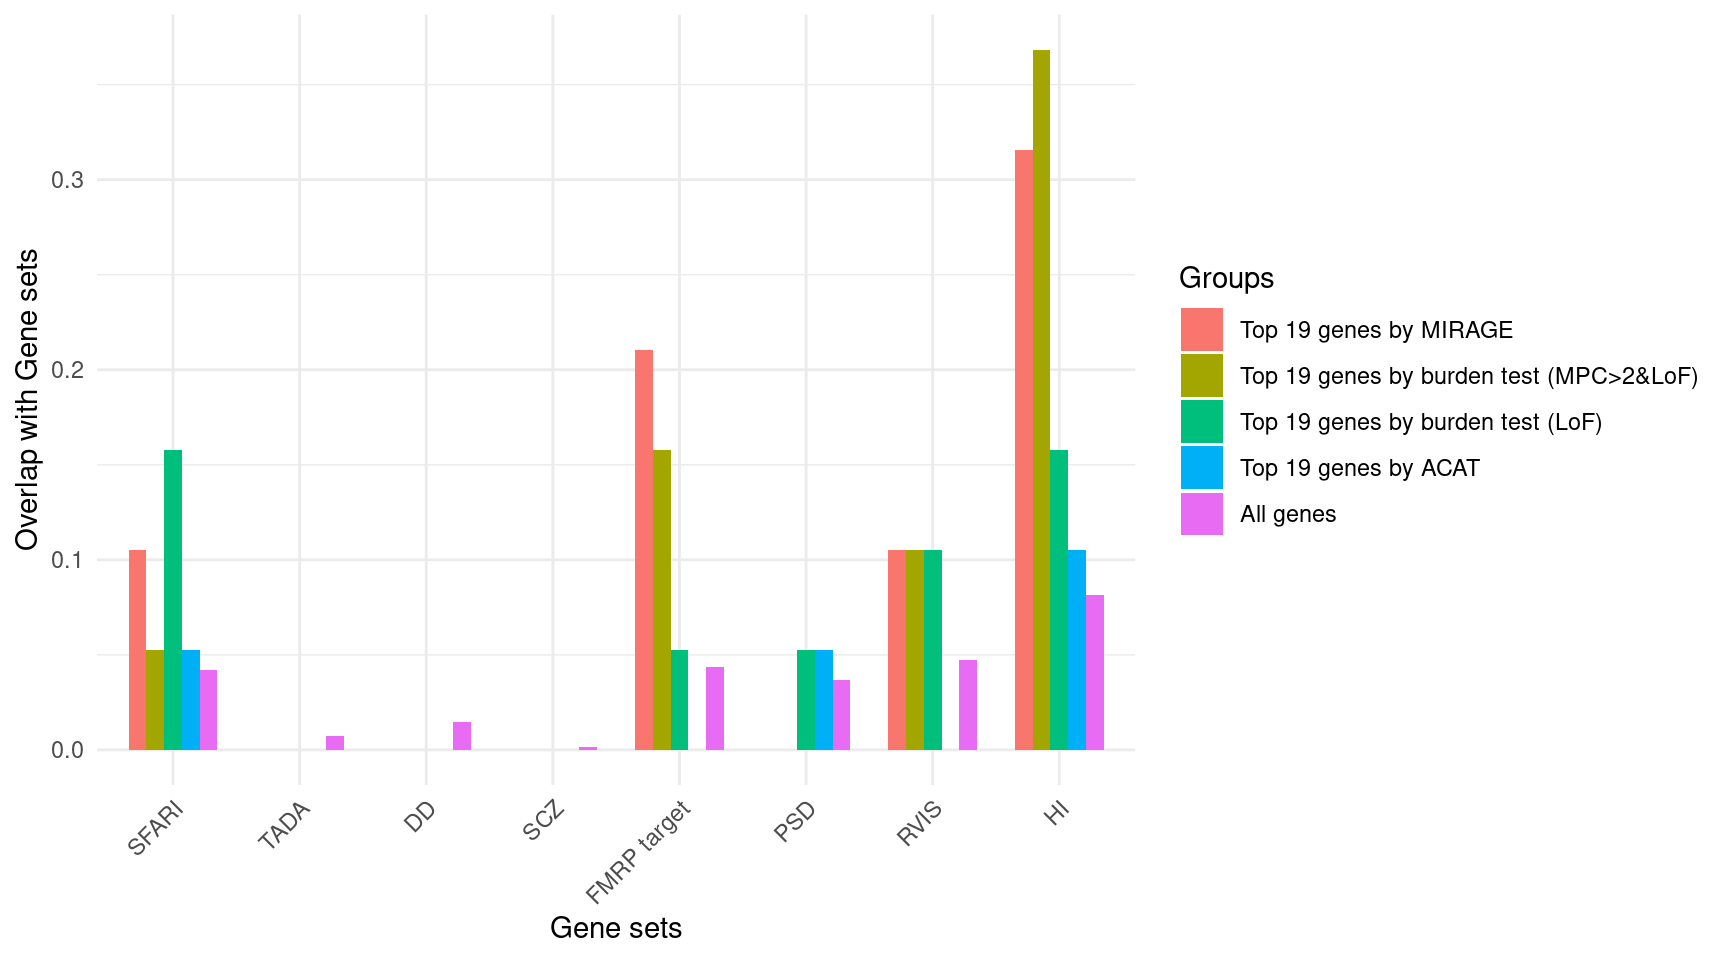
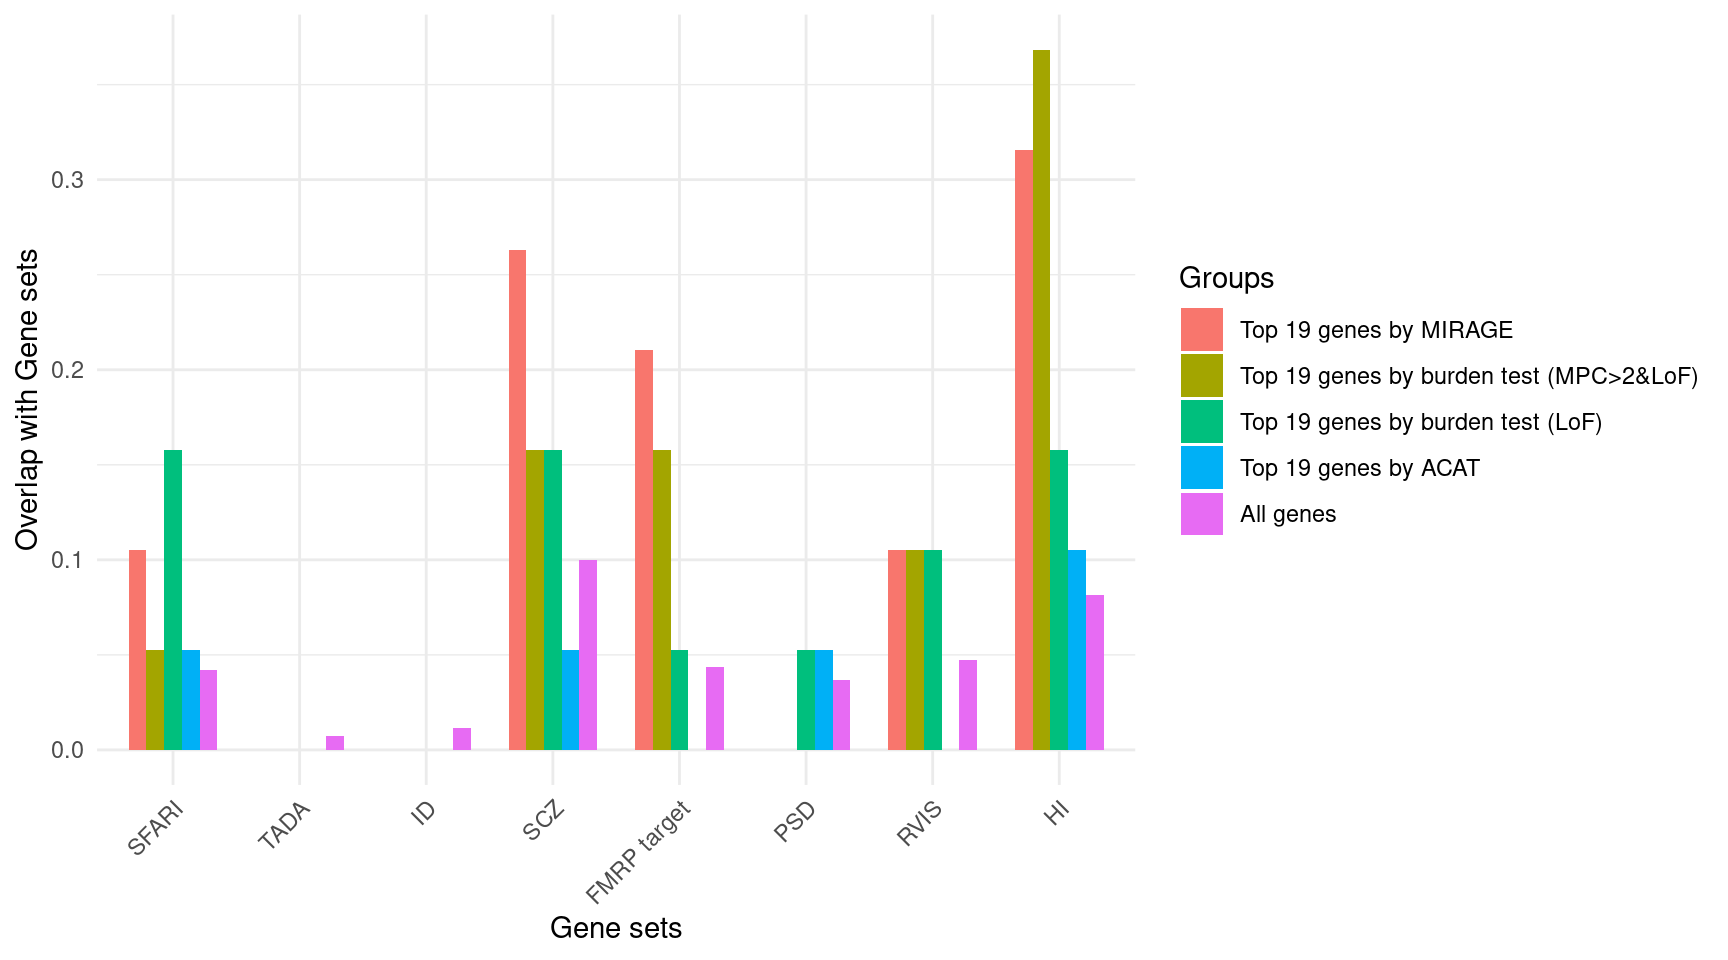
update

Changed region(s): [[0.2812, 0.25, 0.3438, 0.7812]]

diff --git a/docs/mirage_lofmis.html b/docs/mirage_lofmis.html
@@ -390,7 +390,7 @@ annotation updated</h1>
 <p>
 <button type="button" class="btn btn-default btn-workflowr btn-workflowr-report" data-toggle="collapse" data-target="#workflowr-report">
 <span class="glyphicon glyphicon-list" aria-hidden="true"></span>
-workflowr <span class="glyphicon glyphicon-ok text-success"
+workflowr <span class="glyphicon glyphicon-exclamation-sign text-danger"
 aria-hidden="true"></span>
 </button>
 </p>
@@ -401,8 +401,8 @@ aria-hidden="true"></span>
 </li>
 <li>
 <a data-toggle="tab" href="#checks"> Checks <span
-class="glyphicon glyphicon-ok text-success" aria-hidden="true"></span>
-</a>
+class="glyphicon glyphicon-exclamation-sign text-danger"
+aria-hidden="true"></span> </a>
 </li>
 <li>
 <a data-toggle="tab" href="#versions">Past versions</a>
@@ -415,9 +415,9 @@ class="glyphicon glyphicon-ok text-success" aria-hidden="true"></span>
 </p>
 <p>
 <strong>Checks:</strong> <span
-class="glyphicon glyphicon-ok text-success" aria-hidden="true"></span> 7
+class="glyphicon glyphicon-ok text-success" aria-hidden="true"></span> 6
 <span class="glyphicon glyphicon-exclamation-sign text-danger"
-aria-hidden="true"></span> 0
+aria-hidden="true"></span> 1
 </p>
 <p>
 <strong>Knit directory:</strong> <code>rarevariant/</code> <span
@@ -440,18 +440,21 @@ versions</em> tab lists the development history.
 <div class="panel panel-default">
 <div class="panel-heading">
 <p class="panel-title">
-<a data-toggle="collapse" data-parent="#workflowr-checks" href="#strongRMarkdownfilestronguptodate">
-<span class="glyphicon glyphicon-ok text-success"
-aria-hidden="true"></span> <strong>R Markdown file:</strong> up-to-date
-</a>
+<a data-toggle="collapse" data-parent="#workflowr-checks" href="#strongRMarkdownfilestronguncommittedchanges">
+<span class="glyphicon glyphicon-exclamation-sign text-danger"
+aria-hidden="true"></span> <strong>R Markdown file:</strong> uncommitted
+changes </a>
 </p>
 </div>
-<div id="strongRMarkdownfilestronguptodate"
+<div id="strongRMarkdownfilestronguncommittedchanges"
 class="panel-collapse collapse">
 <div class="panel-body">
-<p>Great! Since the R Markdown file has been committed to the Git
-repository, you know the exact version of the code that produced these
-results.</p>
+<p>The R Markdown file has unstaged changes. To know which version of
+the R Markdown file created these results, you’ll want to first commit
+it to the Git repo. If you’re still working on the analysis, you can
+ignore this warning. When you’re finished, you can run
+<code>wflow_publish</code> to commit the R Markdown file and build the
+HTML.</p>
 </div>
 </div>
 </div>
@@ -542,15 +545,15 @@ project makes it easier to run your code on other machines.</p>
 <div class="panel panel-default">
 <div class="panel-heading">
 <p class="panel-title">
-<a data-toggle="collapse" data-parent="#workflowr-checks" href="#strongRepositoryversionstrongahrefhttpsgithubcomxsun1229rarevarianttree4b92a42e3a0888ba1e9c1f10b8ef796a31205085targetblank4b92a42a">
+<a data-toggle="collapse" data-parent="#workflowr-checks" href="#strongRepositoryversionstrongahrefhttpsgithubcomxsun1229rarevarianttree8e4affb916c9d709e9971ed46c2b16c23efeb57ftargetblank8e4affba">
 <span class="glyphicon glyphicon-ok text-success"
 aria-hidden="true"></span> <strong>Repository version:</strong>
-<a href="https://github.com/xsun1229/rarevariant/tree/4b92a42e3a0888ba1e9c1f10b8ef796a31205085" target="_blank">4b92a42</a>
+<a href="https://github.com/xsun1229/rarevariant/tree/8e4affb916c9d709e9971ed46c2b16c23efeb57f" target="_blank">8e4affb</a>
 </a>
 </p>
 </div>
 <div
[2 lines of base64/hex data omitted]
 class="panel-collapse collapse">
 <div class="panel-body">
 <p>
@@ -560,7 +563,7 @@ reproducibility.
 </p>
 <p>
 The results in this page were generated with repository version
-<a href="https://github.com/xsun1229/rarevariant/tree/4b92a42e3a0888ba1e9c1f10b8ef796a31205085" target="_blank">4b92a42</a>.
+<a href="https://github.com/xsun1229/rarevariant/tree/8e4affb916c9d709e9971ed46c2b16c23efeb57f" target="_blank">8e4affb</a>.
 See the <em>Past versions</em> tab to see a history of the changes made
 to the R Markdown and HTML files.
 </p>
@@ -574,7 +577,10 @@ depends on. Below is the status of the Git repository when the results
 were generated:
 </p>
 <pre><code>
-working directory clean
+Unstaged changes:
+    Modified:   analysis/mirage_lofmis.Rmd
+    Modified:   analysis/mirage_mis.Rmd
+
 </code></pre>
 <p>
 Note that any generated files, e.g. HTML, png, CSS, etc., are not
@@ -619,6 +625,23 @@ Message
 </tr>
 </thead>
 <tbody>
+<tr>
+<td>
+html
+</td>
+<td>
+<a href="https://rawcdn.githack.com/xsun1229/rarevariant/8e4affb916c9d709e9971ed46c2b16c23efeb57f/docs/mirage_lofmis.html" target="_blank">8e4affb</a>
+</td>
+<td>
+XSun
+</td>
+<td>
+2025-06-24
+</td>
+<td>
+update
+</td>
+</tr>
 <tr>
 <td>
 Rmd
@@ -1020,7 +1043,7 @@ load(&quot;/project/xinhe/xsun/rare_variants/5.revision/results/enrichment_lofmi
 df_sum &lt;- df_sum[-which(rownames(df_sum) == &quot;constraint gene&quot;),]
 df_sum &lt;- df_sum[-which(rownames(df_sum) == &quot;AutismKB&quot;),]
 
-rownames(df_sum)[which(rownames(df_sum) == &quot;DD&quot;)] &lt;- &quot;DD&quot;
+rownames(df_sum)[which(rownames(df_sum) == &quot;ID gene&quot;)] &lt;- &quot;ID&quot;
 rownames(df_sum)[which(rownames(df_sum) == &quot;SCZ gene&quot;)] &lt;- &quot;SCZ&quot;
 rownames(df_sum)[which(rownames(df_sum) == &quot;FMRP&quot;)] &lt;- &quot;FMRP target&quot;
 rownames(df_sum)[which(rownames(df_sum) == &quot;High&quot;)] &lt;- &quot;TADA&quot;
@@ -1030,7 +1053,7 @@ rownames(df_sum)[which(rownames(df_sum) == &quot;SFARI_gene&quot;)] &lt;- &quot;
 rownames(df_sum)[which(rownames(df_sum) == &quot;Haploinsuff&quot;)] &lt;- &quot;HI&quot;
 
 #order &lt;- c(&quot;SFARI&quot;,&quot;TADA High&quot;,&quot;TADA Med&quot;,&quot;ID&quot;,&quot;SCZ&quot;,&quot;FMRP target&quot;,&quot;PSD&quot;,&quot;RVIS&quot;,&quot;HI&quot;)
-order &lt;- c(&quot;SFARI&quot;,&quot;TADA&quot;,&quot;DD&quot;,&quot;SCZ&quot;,&quot;FMRP target&quot;,&quot;PSD&quot;,&quot;RVIS&quot;,&quot;HI&quot;)
+order &lt;- c(&quot;SFARI&quot;,&quot;TADA&quot;,&quot;ID&quot;,&quot;SCZ&quot;,&quot;FMRP target&quot;,&quot;PSD&quot;,&quot;RVIS&quot;,&quot;HI&quot;)
 
 
 df_plot &lt;- df_sum[,c(&quot;overlap_rate_mirage&quot;,&quot;overlap_rate_burden_combined&quot;,&quot;overlap_rate_burden_lof&quot;,&quot;overlap_rate_acat&quot;,&quot;overlap_rate_all&quot;)]
@@ -1086,6 +1109,17 @@ Date
 <tbody>
 <tr>
 <td>
+<a href="https://github.com/xsun1229/rarevariant/blob/8e4affb916c9d709e9971ed46c2b16c23efeb57f/docs/figure/mirage_lofmis.Rmd/unnamed-chunk-7-1.png" target="_blank">8e4affb</a>
+</td>
+<td>
+XSun
+</td>
+<td>
+2025-06-24
+</td>
+</tr>
+<tr>
+<td>
 <a href="https://github.com/xsun1229/rarevariant/blob/4b92a42e3a0888ba1e9c1f10b8ef796a31205085/docs/figure/mirage_lofmis.Rmd/unnamed-chunk-7-1.png" target="_blank">4b92a42</a>
 </td>
 <td>
@@ -1099,6 +1133,26 @@ XSun
 </table>
 </div>
 </div>
+</div>
+</div>
+<div id="other-methods" class="section level1">
+<h1>Other methods</h1>
+<pre class="r"><code>source(&quot;/project/xinhe/xsun/r_functions/qqplot_multi.R&quot;)
+
+burden_pvalues &lt;- readRDS(&quot;/project/xinhe/xsun/rare_variants/5.revision/results/burden_pvalues_lofmisupdated.RDS&quot;)
+burden_pvalues &lt;- as.data.frame(burden_pvalues)
+
+ACAT &lt;- readRDS(&quot;/project/xinhe/xsun/rare_variants/5.revision/results/acat_lofmisupdated.RDS&quot;)
+
+
+pvalues &lt;- list(&#39;Burden test (LoF)&#39; = burden_pvalues$LoF_pvalue,
+                &#39;Burden test (likely pathogenic &amp;LoF)&#39; = burden_pvalues$fisher_combine_pvalue, 
+                &#39;ACAT&#39; = ACAT$ACAT_pvalue)
+
+p &lt;- qqplot_multi(pvalues_list = pvalues,legend_names = c(&#39;Burden test (LoF)&#39;,&#39;Burden test (likely pathogenic &amp;LoF)&#39;,&#39;ACAT&#39;))
+
+print(p)</code></pre>
+<p><img src="figure/mirage_lofmis.Rmd/unnamed-chunk-8-1.png" width="480" style="display: block; margin: auto;" /></p>
 <br>
 <p>
 <button type="button" class="btn btn-default btn-workflowr btn-workflowr-sessioninfo" data-toggle="collapse" data-target="#workflowr-sessioninfo" style="display: block;">
@@ -1140,7 +1194,6 @@ loaded via a namespace (and not attached):
 [45] scales_1.3.0      promises_1.2.0.1  htmltools_0.5.2   colorspace_2.0-3 
 [49] httpuv_1.6.5      labeling_0.4.2    utf8_1.2.2        stringi_1.7.6    
 [53] munsell_0.5.0    </code></pre>
-</div>
 </div>
 </div>
 

diff --git a/docs/mirage_mis.html b/docs/mirage_mis.html
@@ -390,7 +390,7 @@ updated</h1>
 <p>
 <button type="button" class="btn btn-default btn-workflowr btn-workflowr-report" data-toggle="collapse" data-target="#workflowr-report">
 <span class="glyphicon glyphicon-list" aria-hidden="true"></span>
-workflowr <span class="glyphicon glyphicon-ok text-success"
+workflowr <span class="glyphicon glyphicon-exclamation-sign text-danger"
 aria-hidden="true"></span>
 </button>
 </p>
@@ -401,8 +401,8 @@ aria-hidden="true"></span>
 </li>
 <li>
 <a data-toggle="tab" href="#checks"> Checks <span
-class="glyphicon glyphicon-ok text-success" aria-hidden="true"></span>
-</a>
+class="glyphicon glyphicon-exclamation-sign text-danger"
+aria-hidden="true"></span> </a>
 </li>
 <li>
 <a data-toggle="tab" href="#versions">Past versions</a>
@@ -415,9 +415,9 @@ class="glyphicon glyphicon-ok text-success" aria-hidden="true"></span>
 </p>
 <p>
 <strong>Checks:</strong> <span
-class="glyphicon glyphicon-ok text-success" aria-hidden="true"></span> 7
+class="glyphicon glyphicon-ok text-success" aria-hidden="true"></span> 6
 <span class="glyphicon glyphicon-exclamation-sign text-danger"
-aria-hidden="true"></span> 0
+aria-hidden="true"></span> 1
 </p>
 <p>
 <strong>Knit directory:</strong> <code>rarevariant/</code> <span
@@ -440,18 +440,21 @@ versions</em> tab lists the development history.
 <div class="panel panel-default">
 <div class="panel-heading">
 <p class="panel-title">
-<a data-toggle="collapse" data-parent="#workflowr-checks" href="#strongRMarkdownfilestronguptodate">
-<span class="glyphicon glyphicon-ok text-success"
-aria-hidden="true"></span> <strong>R Markdown file:</strong> up-to-date
-</a>
+<a data-toggle="collapse" data-parent="#workflowr-checks" href="#strongRMarkdownfilestronguncommittedchanges">
+<span class="glyphicon glyphicon-exclamation-sign text-danger"
+aria-hidden="true"></span> <strong>R Markdown file:</strong> uncommitted
+changes </a>
 </p>
 </div>
-<div id="strongRMarkdownfilestronguptodate"
+<div id="strongRMarkdownfilestronguncommittedchanges"
 class="panel-collapse collapse">
 <div class="panel-body">
-<p>Great! Since the R Markdown file has been committed to the Git
-repository, you know the exact version of the code that produced these
-results.</p>
+<p>The R Markdown file has unstaged changes. To know which version of
+the R Markdown file created these results, you’ll want to first commit
+it to the Git repo. If you’re still working on the analysis, you can
+ignore this warning. When you’re finished, you can run
+<code>wflow_publish</code> to commit the R Markdown file and build the
+HTML.</p>
 </div>
 </div>
 </div>
@@ -542,15 +545,15 @@ project makes it easier to run your code on other machines.</p>
 <div class="panel panel-default">
 <div class="panel-heading">
 <p class="panel-title">
-<a data-toggle="collapse" data-parent="#workflowr-checks" href="#strongRepositoryversionstrongahrefhttpsgithubcomxsun1229rarevarianttree4b92a42e3a0888ba1e9c1f10b8ef796a31205085targetblank4b92a42a">
+<a data-toggle="collapse" data-parent="#workflowr-checks" href="#strongRepositoryversionstrongahrefhttpsgithubcomxsun1229rarevarianttree8e4affb916c9d709e9971ed46c2b16c23efeb57ftargetblank8e4affba">
 <span class="glyphicon glyphicon-ok text-success"
 aria-hidden="true"></span> <strong>Repository version:</strong>
-<a href="https://github.com/xsun1229/rarevariant/tree/4b92a42e3a0888ba1e9c1f10b8ef796a31205085" target="_blank">4b92a42</a>
+<a href="https://github.com/xsun1229/rarevariant/tree/8e4affb916c9d709e9971ed46c2b16c23efeb57f" target="_blank">8e4affb</a>
 </a>
 </p>
 </div>
 <div
[2 lines of base64/hex data omitted]
 class="panel-collapse collapse">
 <div class="panel-body">
 <p>
@@ -560,7 +563,7 @@ reproducibility.
 </p>
 <p>
 The results in this page were generated with repository version
-<a href="https://github.com/xsun1229/rarevariant/tree/4b92a42e3a0888ba1e9c1f10b8ef796a31205085" target="_blank">4b92a42</a>.
+<a href="https://github.com/xsun1229/rarevariant/tree/8e4affb916c9d709e9971ed46c2b16c23efeb57f" target="_blank">8e4affb</a>.
 See the <em>Past versions</em> tab to see a history of the changes made
 to the R Markdown and HTML files.
 </p>
@@ -574,7 +577,10 @@ depends on. Below is the status of the Git repository when the results
 were generated:
 </p>
 <pre><code>
-working directory clean
+Unstaged changes:
+    Modified:   analysis/mirage_lofmis.Rmd
+    Modified:   analysis/mirage_mis.Rmd
+
 </code></pre>
 <p>
 Note that any generated files, e.g. HTML, png, CSS, etc., are not
@@ -619,6 +625,23 @@ Message
 </tr>
 </thead>
 <tbody>
+<tr>
+<td>
+html
+</td>
+<td>
+<a href="https://rawcdn.githack.com/xsun1229/rarevariant/8e4affb916c9d709e9971ed46c2b16c23efeb57f/docs/mirage_mis.html" target="_blank">8e4affb</a>
+</td>
+<td>
+XSun
+</td>
+<td>
+2025-06-24
+</td>
+<td>
+update
+</td>
+</tr>
 <tr>
 <td>
 Rmd
@@ -1020,7 +1043,7 @@ load(&quot;/project/xinhe/xsun/rare_variants/5.revision/results/enrichment_misup
 df_sum &lt;- df_sum[-which(rownames(df_sum) == &quot;constraint gene&quot;),]
 df_sum &lt;- df_sum[-which(rownames(df_sum) == &quot;AutismKB&quot;),]
 
-rownames(df_sum)[which(rownames(df_sum) == &quot;DD&quot;)] &lt;- &quot;DD&quot;
+rownames(df_sum)[which(rownames(df_sum) == &quot;ID gene&quot;)] &lt;- &quot;ID&quot;
 rownames(df_sum)[which(rownames(df_sum) == &quot;SCZ gene&quot;)] &lt;- &quot;SCZ&quot;
 rownames(df_sum)[which(rownames(df_sum) == &quot;FMRP&quot;)] &lt;- &quot;FMRP target&quot;
 rownames(df_sum)[which(rownames(df_sum) == &quot;High&quot;)] &lt;- &quot;TADA&quot;
@@ -1030,7 +1053,7 @@ rownames(df_sum)[which(rownames(df_sum) == &quot;SFARI_gene&quot;)] &lt;- &quot;
 rownames(df_sum)[which(rownames(df_sum) == &quot;Haploinsuff&quot;)] &lt;- &quot;HI&quot;
 
 #order &lt;- c(&quot;SFARI&quot;,&quot;TADA High&quot;,&quot;TADA Med&quot;,&quot;ID&quot;,&quot;SCZ&quot;,&quot;FMRP target&quot;,&quot;PSD&quot;,&quot;RVIS&quot;,&quot;HI&quot;)
-order &lt;- c(&quot;SFARI&quot;,&quot;TADA&quot;,&quot;DD&quot;,&quot;SCZ&quot;,&quot;FMRP target&quot;,&quot;PSD&quot;,&quot;RVIS&quot;,&quot;HI&quot;)
+order &lt;- c(&quot;SFARI&quot;,&quot;TADA&quot;,&quot;ID&quot;,&quot;SCZ&quot;,&quot;FMRP target&quot;,&quot;PSD&quot;,&quot;RVIS&quot;,&quot;HI&quot;)
 
 
 df_plot &lt;- df_sum[,c(&quot;overlap_rate_mirage&quot;,&quot;overlap_rate_burden_combined&quot;,&quot;overlap_rate_burden_lof&quot;,&quot;overlap_rate_acat&quot;,&quot;overlap_rate_all&quot;)]
@@ -1085,6 +1108,17 @@ Date
 <tbody>
 <tr>
 <td>
+<a href="https://github.com/xsun1229/rarevariant/blob/8e4affb916c9d709e9971ed46c2b16c23efeb57f/docs/figure/mirage_mis.Rmd/unnamed-chunk-7-1.png" target="_blank">8e4affb</a>
+</td>
+<td>
+XSun
+</td>
+<td>
+2025-06-24
+</td>
+</tr>
+<tr>
+<td>
 <a href="https://github.com/xsun1229/rarevariant/blob/4b92a42e3a0888ba1e9c1f10b8ef796a31205085/docs/figure/mirage_mis.Rmd/unnamed-chunk-7-1.png" target="_blank">4b92a42</a>
 </td>
 <td>
@@ -1098,6 +1132,26 @@ XSun
 </table>
 </div>
 </div>
+</div>
+</div>
+<div id="other-methods" class="section level1">
+<h1>Other methods</h1>
+<pre class="r"><code>source(&quot;/project/xinhe/xsun/r_functions/qqplot_multi.R&quot;)
+
+burden_pvalues &lt;- readRDS(&quot;/project/xinhe/xsun/rare_variants/5.revision/results/burden_pvalues_misupdated.RDS&quot;)
+burden_pvalues &lt;- as.data.frame(burden_pvalues)
+
+ACAT &lt;- readRDS(&quot;/project/xinhe/xsun/rare_variants/5.revision/results/acat_misupdated.RDS&quot;)
+
+
+pvalues &lt;- list(&#39;Burden test (LoF)&#39; = burden_pvalues$LoF_pvalue,
+                &#39;Burden test (likely pathogenic &amp;LoF)&#39; = burden_pvalues$fisher_combine_pvalue, 
+                &#39;ACAT&#39; = ACAT$ACAT_pvalue)
+
+p &lt;- qqplot_multi(pvalues_list = pvalues,legend_names = c(&#39;Burden test (LoF)&#39;,&#39;Burden test (likely pathogenic &amp;LoF)&#39;,&#39;ACAT&#39;))
+
+print(p)</code></pre>
+<p><img src="figure/mirage_mis.Rmd/unnamed-chunk-8-1.png" width="480" style="display: block; margin: auto;" /></p>
 <br>
 <p>
 <button type="button" class="btn btn-default btn-workflowr btn-workflowr-sessioninfo" data-toggle="collapse" data-target="#workflowr-sessioninfo" style="display: block;">
@@ -1139,7 +1193,6 @@ loaded via a namespace (and not attached):
 [45] scales_1.3.0      promises_1.2.0.1  htmltools_0.5.2   colorspace_2.0-3 
 [49] httpuv_1.6.5      labeling_0.4.2    utf8_1.2.2        stringi_1.7.6    
 [53] munsell_0.5.0    </code></pre>
-</div>
 </div>
 </div>
 
